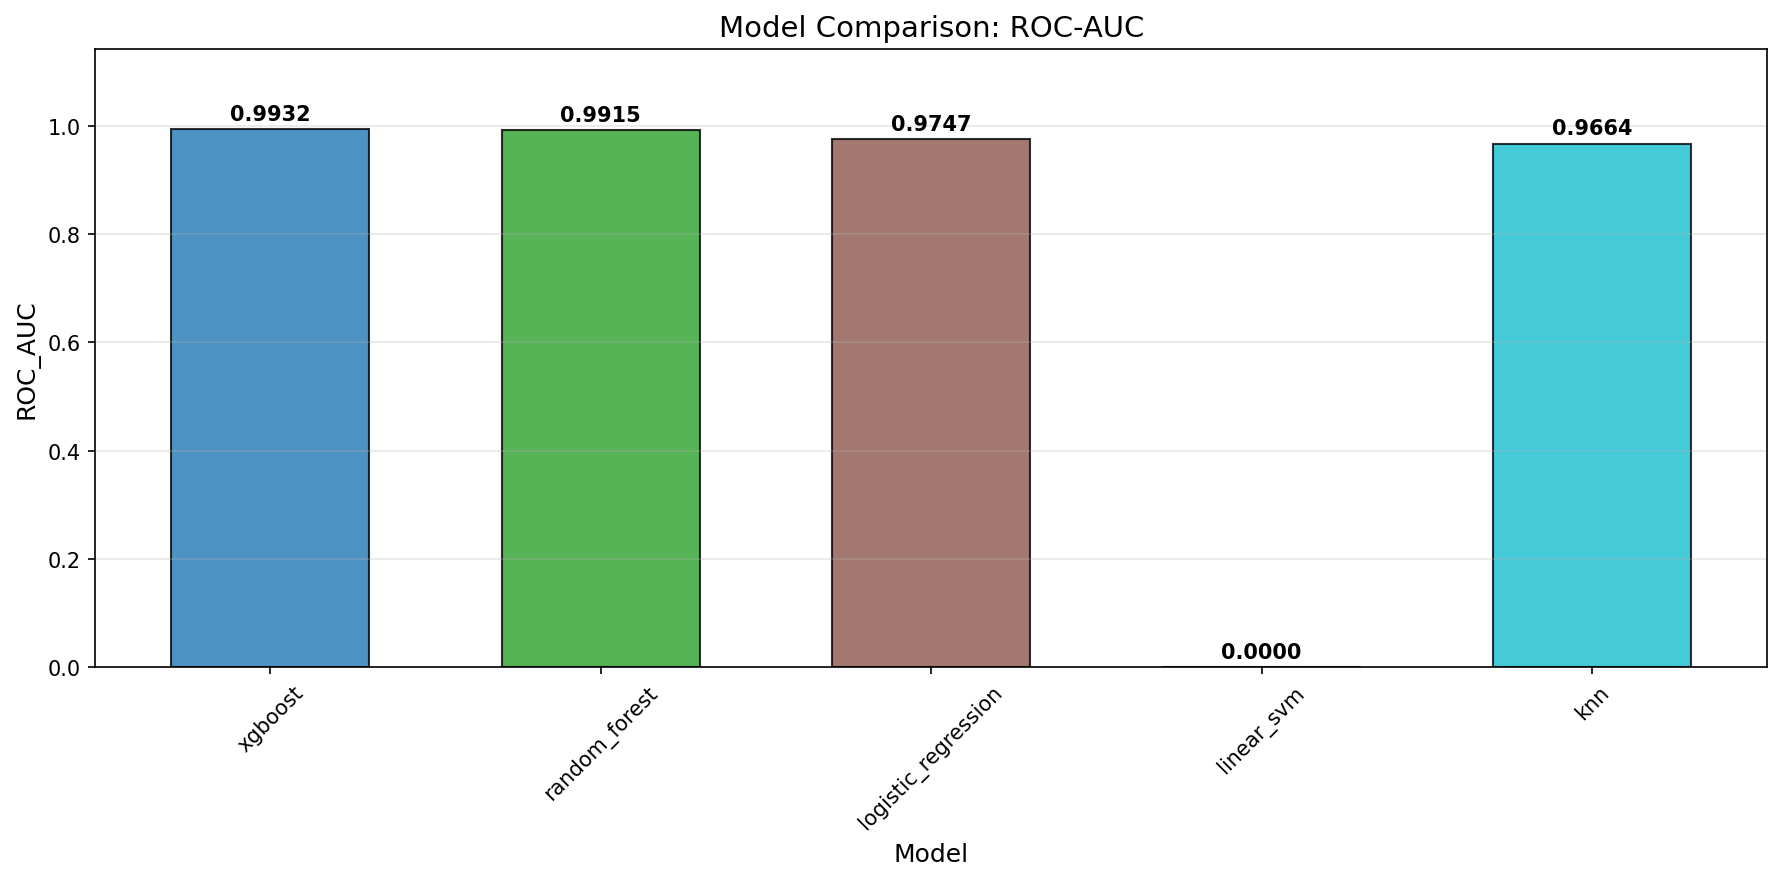
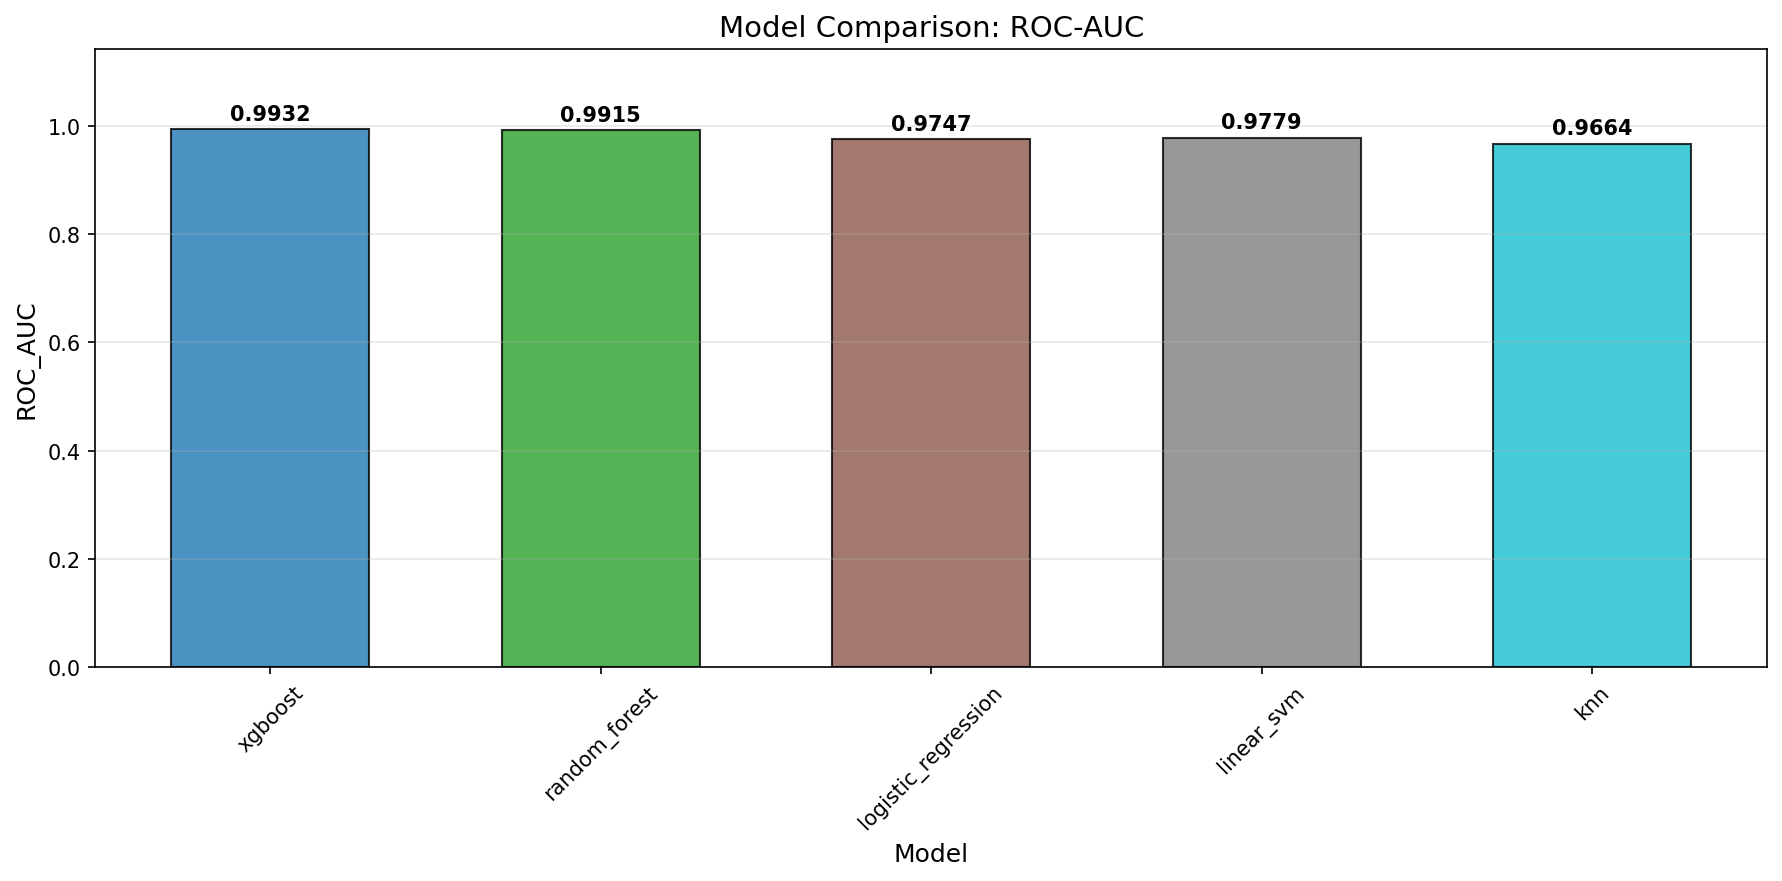
docs: updated metrcis

Changed region(s): [[0.6481, 0.1226, 0.7716, 0.7662]]

diff --git a/src/python/evaluation/quick_evaluation.py b/src/python/evaluation/quick_evaluation.py
@@ -491,12 +491,31 @@ def run_quick_evaluation(
 
         # Predict on same sample for quick metrics
         y_pred = model.predict(X_sample)
-        try:
-            y_proba = model.predict_proba(X_sample)[:, 1]
-            y_proba_dict[name] = y_proba
-            auc = roc_auc_score(y_sample, y_proba)
-        except Exception:
-            y_proba = None
+
+        # Get probabilities or decision scores
+        y_proba = None
+        auc = 0.0
+
+        if hasattr(model, "predict_proba"):
+            try:
+                y_proba = model.predict_proba(X_sample)[:, 1]
+                y_proba_dict[name] = y_proba
+                auc = roc_auc_score(y_sample, y_proba)
+            except Exception:
+                y_proba_dict[name] = None
+                auc = 0.0
+        elif hasattr(model, "decision_function"):
+            # For SVM, use decision function scores
+            try:
+                decision_scores = model.decision_function(X_sample)
+                # Convert to probabilities using sigmoid
+                y_proba = 1 / (1 + np.exp(-decision_scores))
+                y_proba_dict[name] = y_proba
+                auc = roc_auc_score(y_sample, decision_scores)
+            except Exception:
+                y_proba_dict[name] = None
+                auc = 0.0
+        else:
             y_proba_dict[name] = None
             auc = 0.0
 
